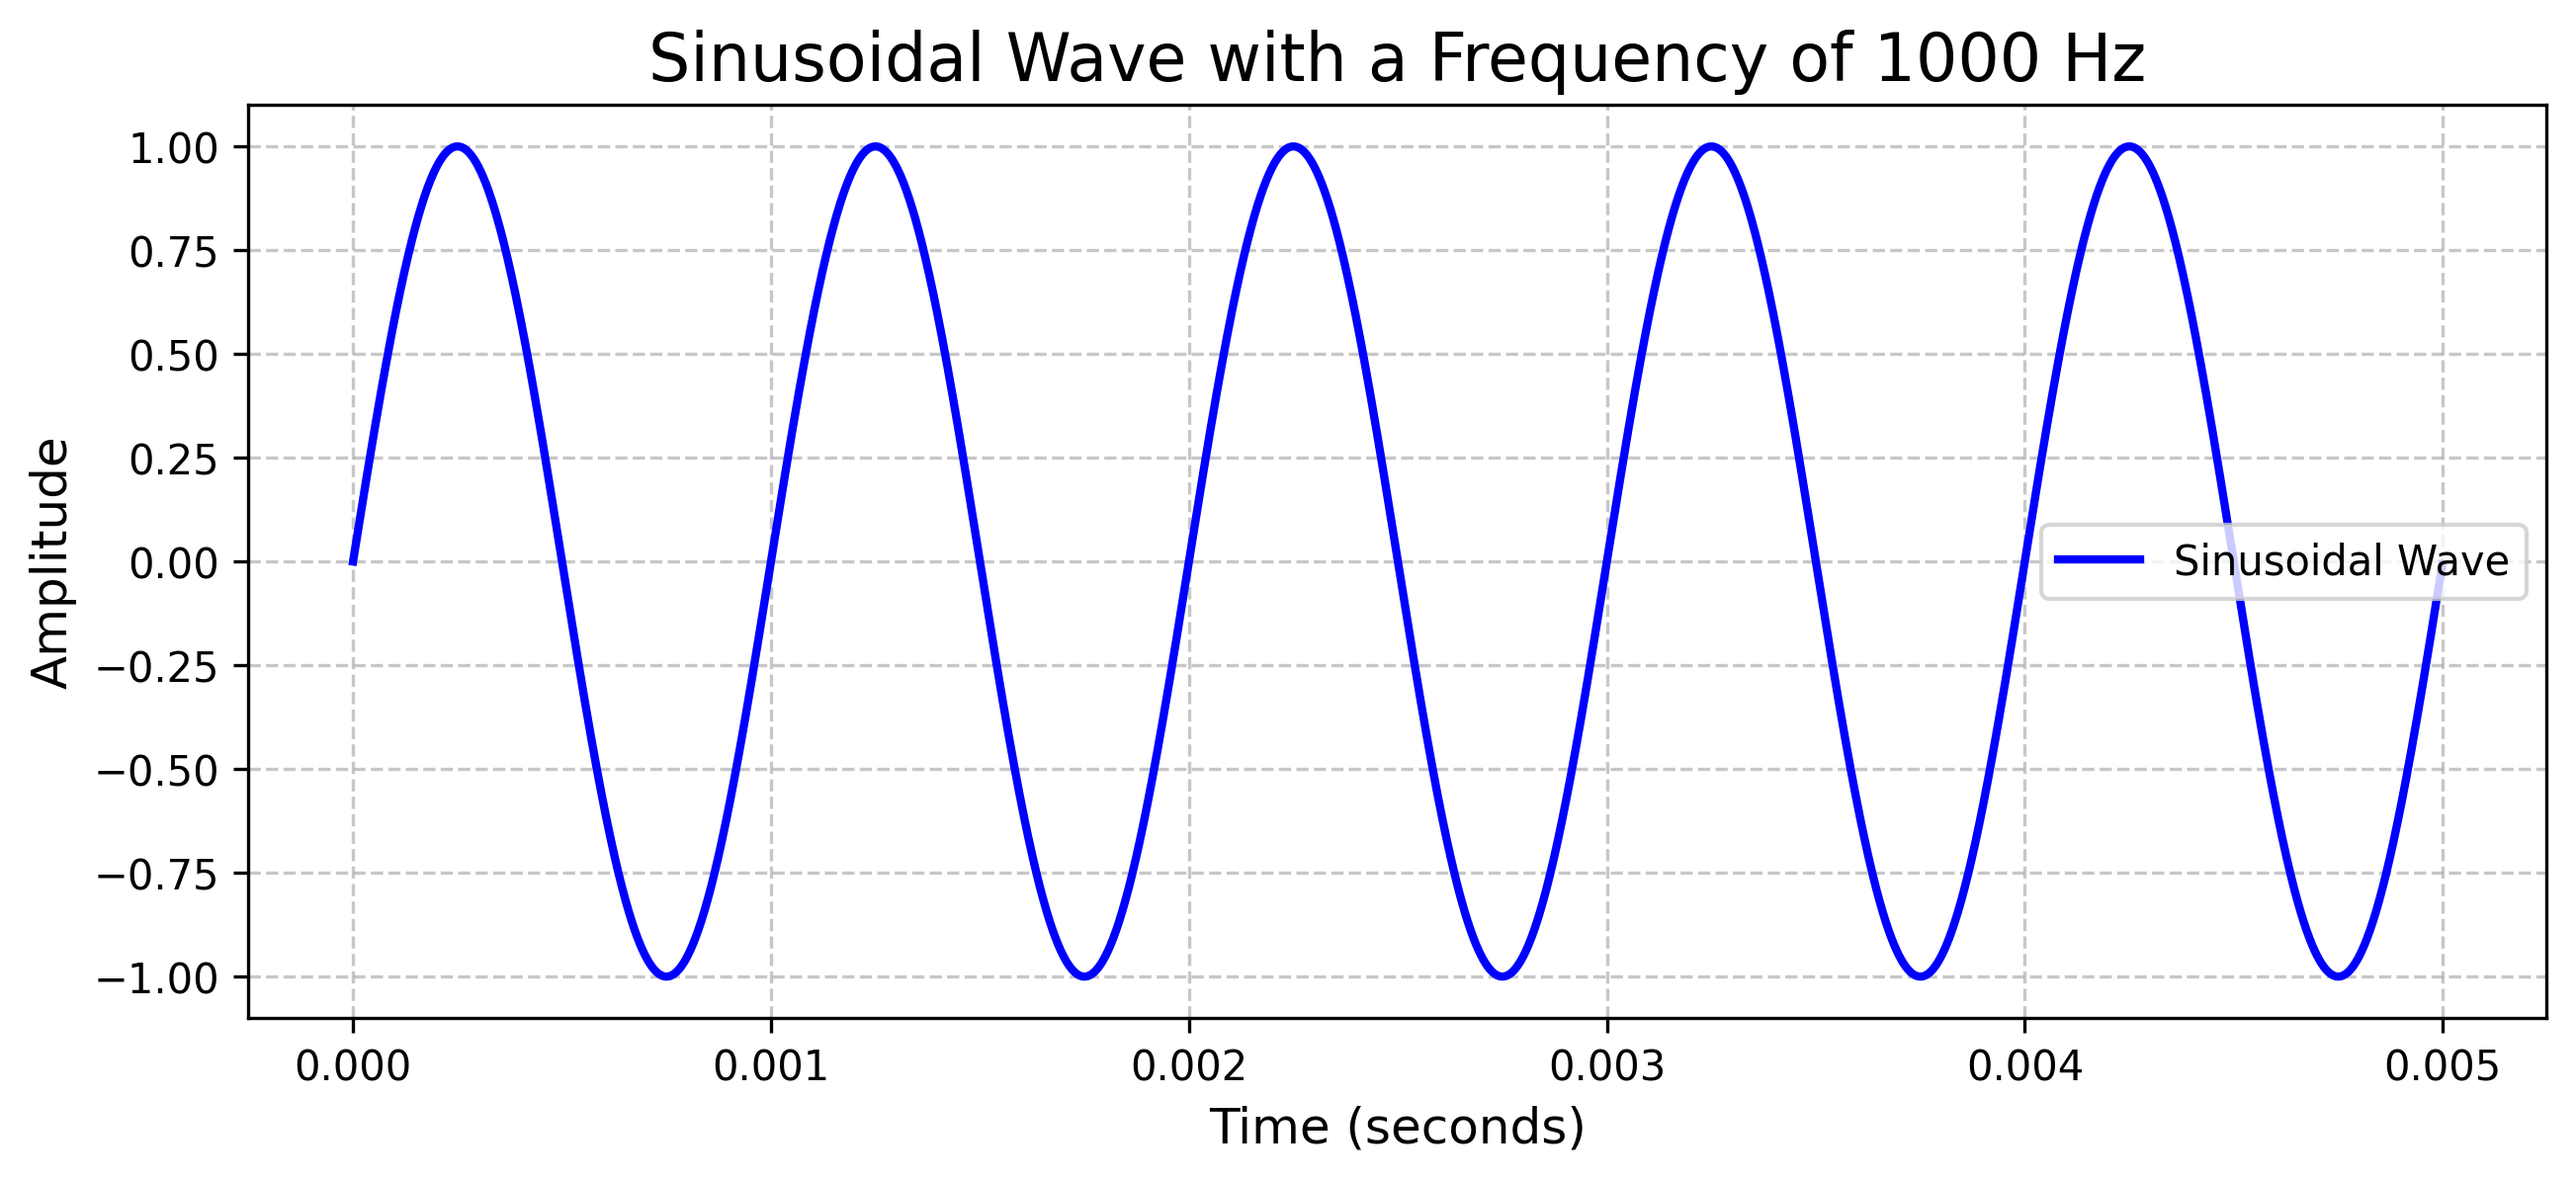
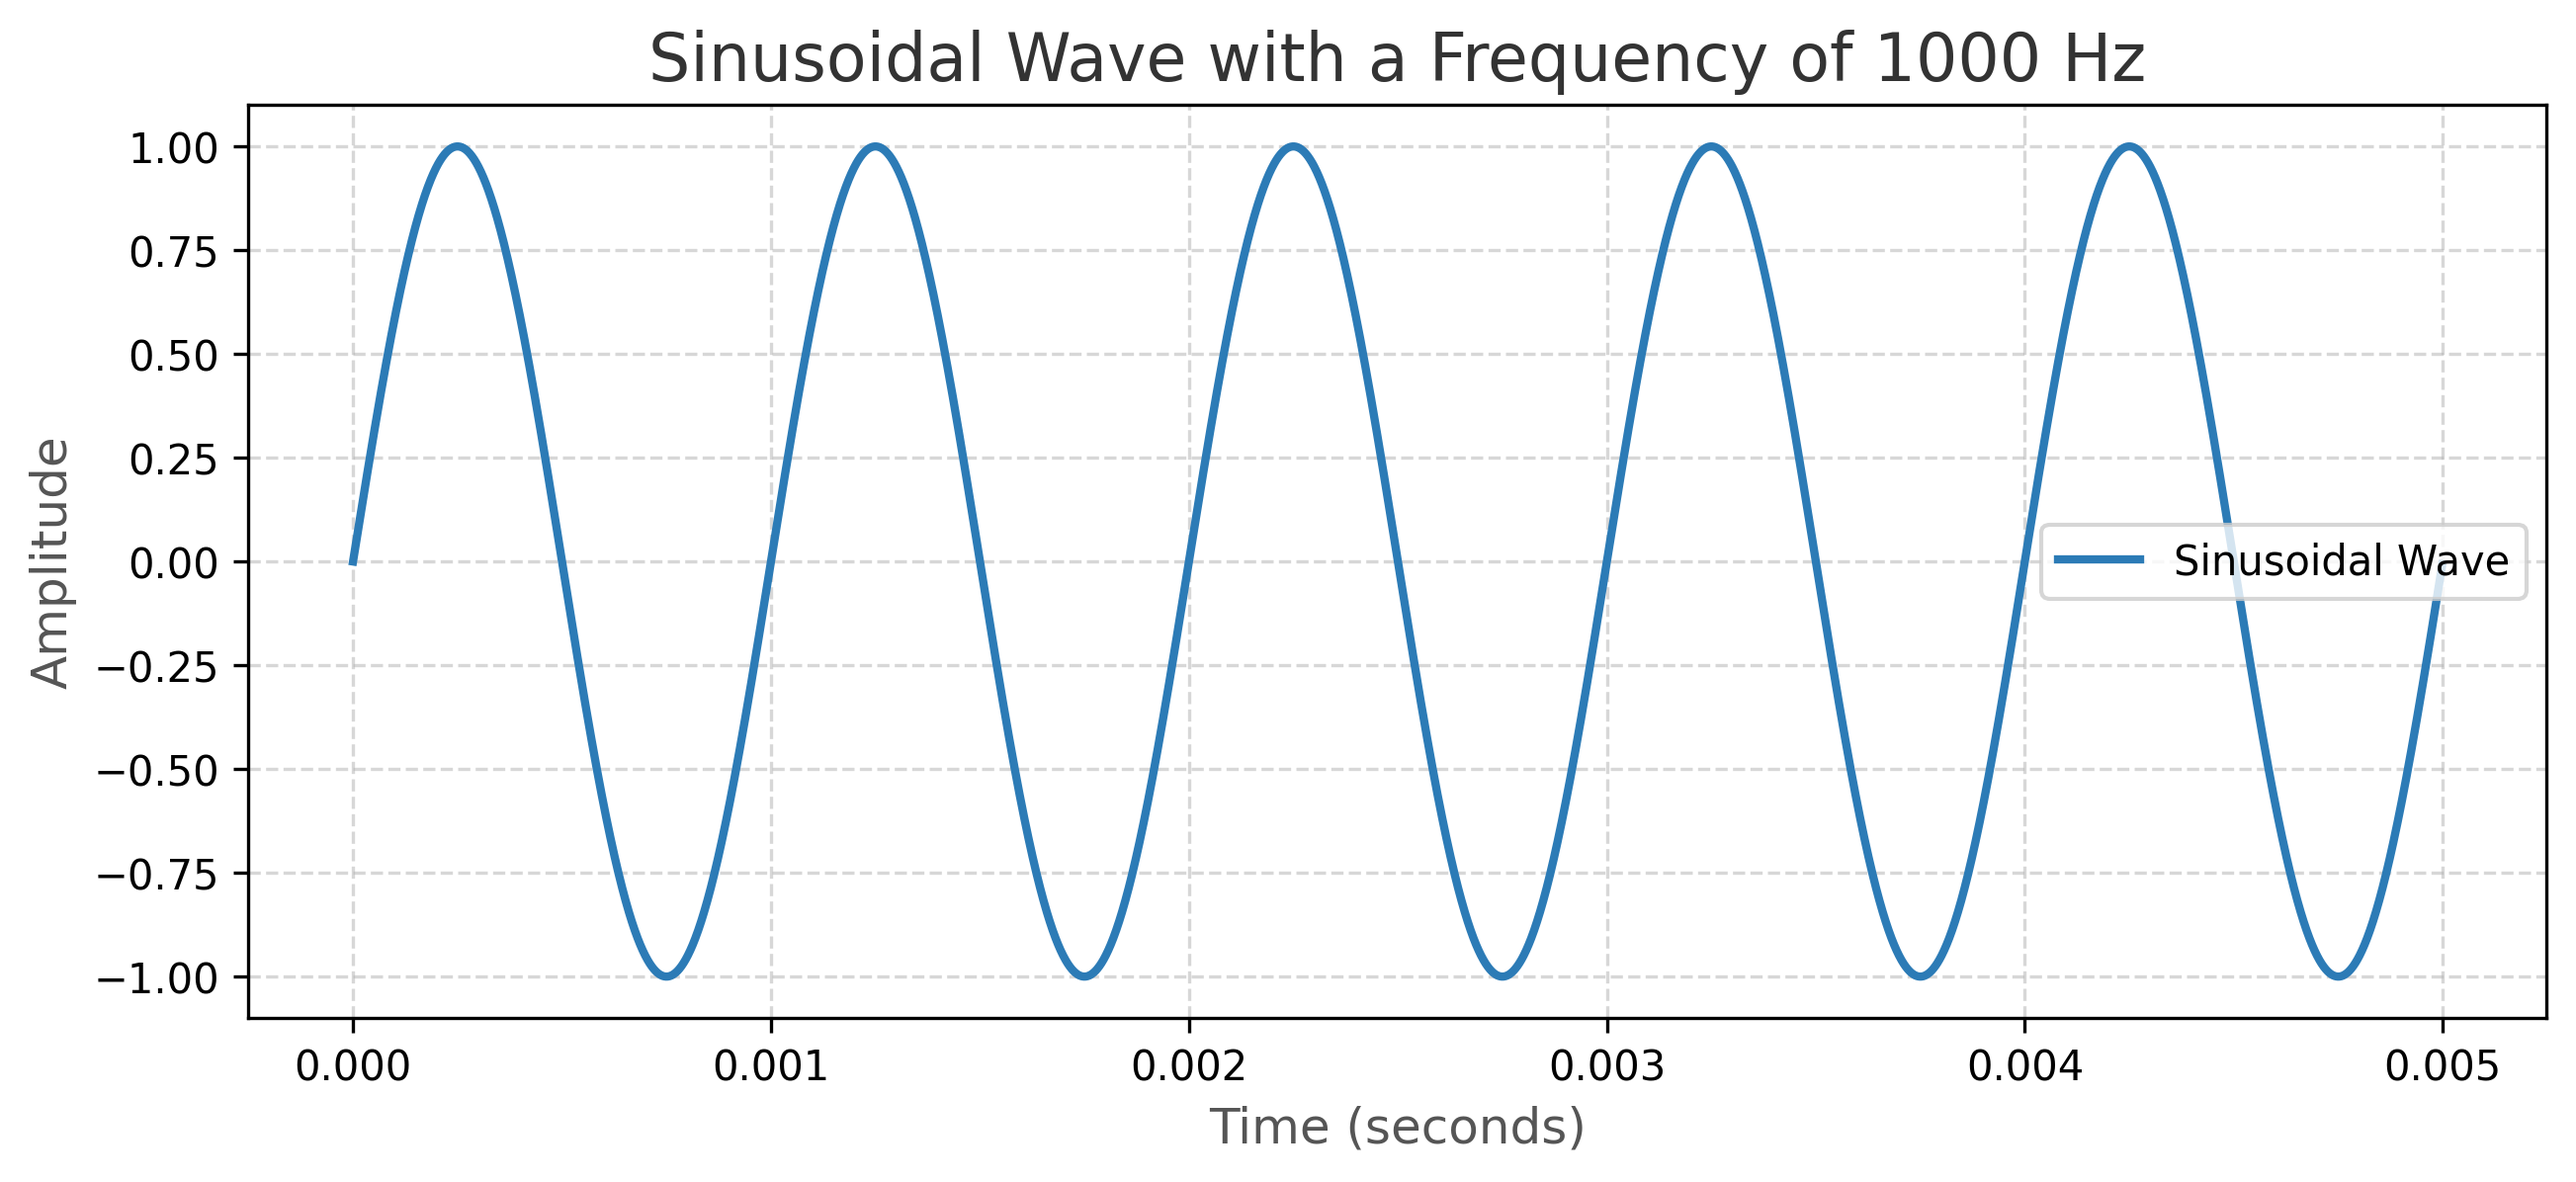
update

diff --git a/sinusoidal_wave_plot.py b/sinusoidal_wave_plot.py
@@ -12,15 +12,18 @@ signal = np.sin(2 * np.pi * f * t)
 
 # Plot the waveform with improved styling
 plt.figure(figsize=(10, 4))  # Set figure size
-plt.plot(t, signal, label='Sinusoidal Wave', color='blue', linewidth=2)
-plt.title('Sinusoidal Wave with a Frequency of 1000 Hz', fontsize=16)
-plt.xlabel('Time (seconds)', fontsize=12)
-plt.ylabel('Amplitude', fontsize=12)
-plt.grid(True, linestyle='--', alpha=0.7)
+plt.plot(t, signal, label='Sinusoidal Wave', color='#2C7BB6', linewidth=2)  # Use a pleasant color
+plt.title('Sinusoidal Wave with a Frequency of 1000 Hz', fontsize=16, color='#333333')  # Darker title color
+plt.xlabel('Time (seconds)', fontsize=12, color='#555555')  # Darker x-axis label color
+plt.ylabel('Amplitude', fontsize=12, color='#555555')  # Darker y-axis label color
+plt.grid(True, linestyle='--', alpha=0.5)  # Lighter grid lines
 plt.legend()
 
-# Save the figure as a PNG file
-plt.savefig('sinusoidal_wave_plot.png', dpi=300, bbox_inches='tight')
+# Save the figure as a PNG file with higher resolution
+plt.savefig('sinusoidal_wave_plot.png', dpi=300, bbox_inches='tight', transparent=True)
 
-# Show the plot
+# Show the plot with an interactive grid
+plt.grid(True, linestyle='--', alpha=0.5)
+plt.minorticks_on()
+plt.grid(which='minor', linestyle='--', alpha=0.3)
 plt.show()
